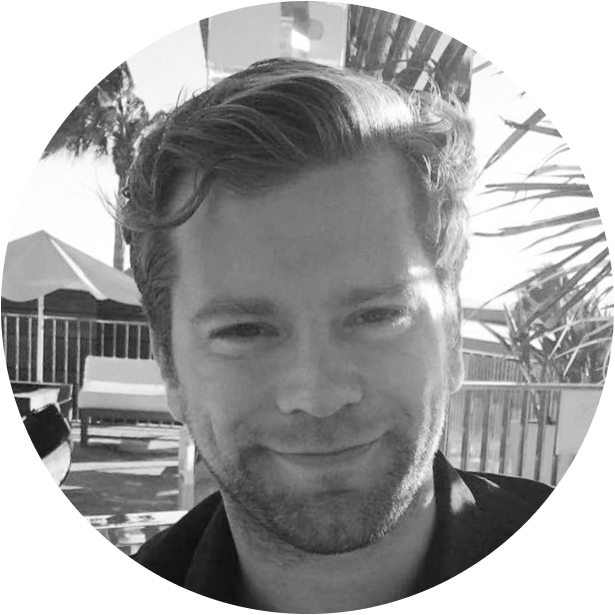
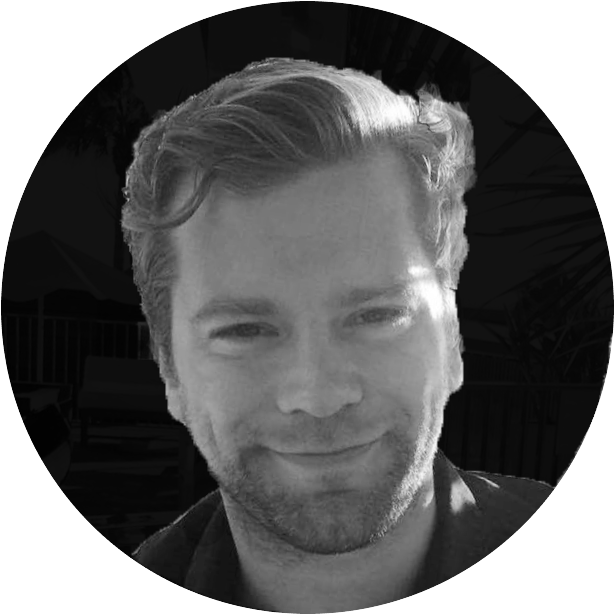
adjusted some team picture backgrounds and small usp text adjustments

diff --git a/src/components/organisms/nft/landing-page/usp-section.tsx b/src/components/organisms/nft/landing-page/usp-section.tsx
@@ -19,7 +19,7 @@ function IconElement({ title, description, icon }: { title: string, description:
 const usps = [
   {
     title: t`Unique 3D Artwork`,
-    description: t`High quality 3D generative artwork with 10,000 unique NFTs`,
+    description: t`High quality and true 3D generative artwork with 10,000 unique NFTs`,
     icon: 'artwork',
   },
   {
@@ -29,7 +29,7 @@ const usps = [
   },
   {
     title: t`Get your unique Paycer NFT Credit Card`,
-    description: t`Get your NFT printed on your Paycer Credit Card`,
+    description: t`Get your very own NFT printed on your Paycer Credit Card`,
     icon: 'creditcard',
   },
   {
@@ -58,7 +58,7 @@ const usps = [
     icon: 'breed',
   },
   {
-    title: t`Cash Back & Rewards`,
+    title: t`Cashback & Rewards`,
     description: t`Paycer is about to become a Web3 Neo Bank - The NFT will add cashback rewards to your credit card`,
     icon: 'cashback',
   },

diff --git a/src/components/organisms/nft/landing-page/team-section.tsx b/src/components/organisms/nft/landing-page/team-section.tsx
@@ -69,7 +69,7 @@ export default function TeamSection() {
                     <TeamMember imgSrc="/img/nft/team/christoff.png" name={t`Christoff Berlage`} jobTitle={t`Head of Marketing`} />
                 </div>
                 <div className="col-md-3 mb-4 mb-5">
-                    <TeamMember imgSrc="/img/nft/team/masha.png" name={t`Mahsa Doorfard`} jobTitle={t`Researcher & Marketing Manager`} />
+                    <TeamMember imgSrc="/img/nft/team/mahsa.png" name={t`Mahsa Doorfard`} jobTitle={t`Researcher & Marketing Manager`} />
                 </div>
                 <div className="col-md-3 mb-4 mb-5">
                     <TeamMember imgSrc="/img/nft/team/kerim.jpg" name={t`Kerim Yurttas`} jobTitle={t`Head of UI / UX`} />
